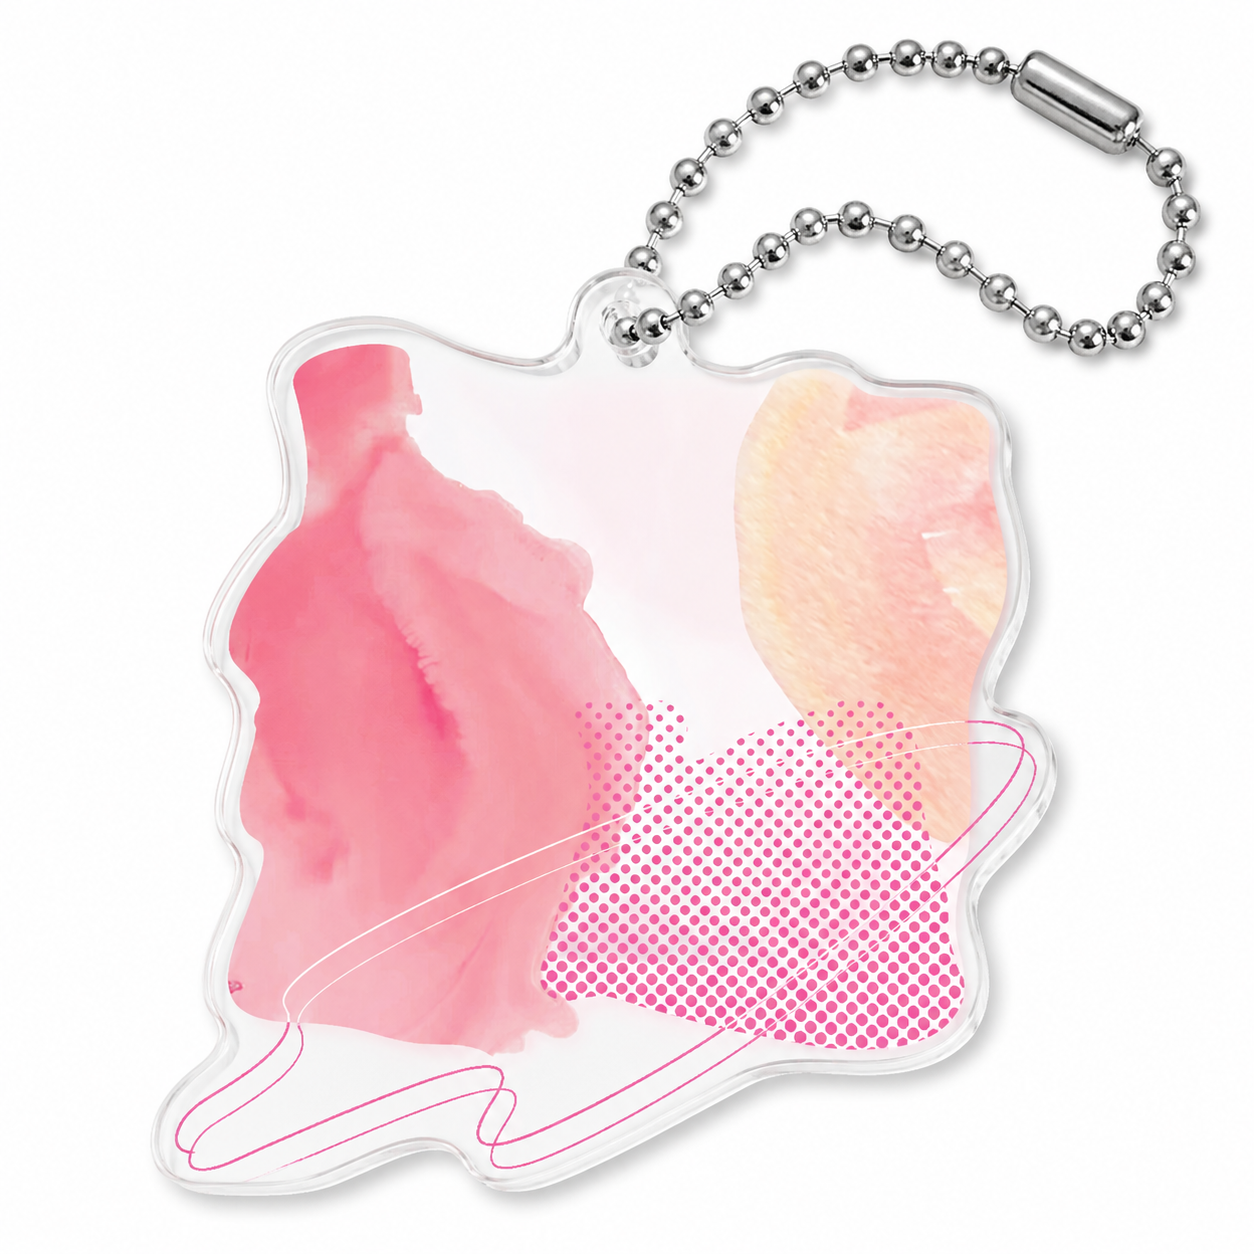
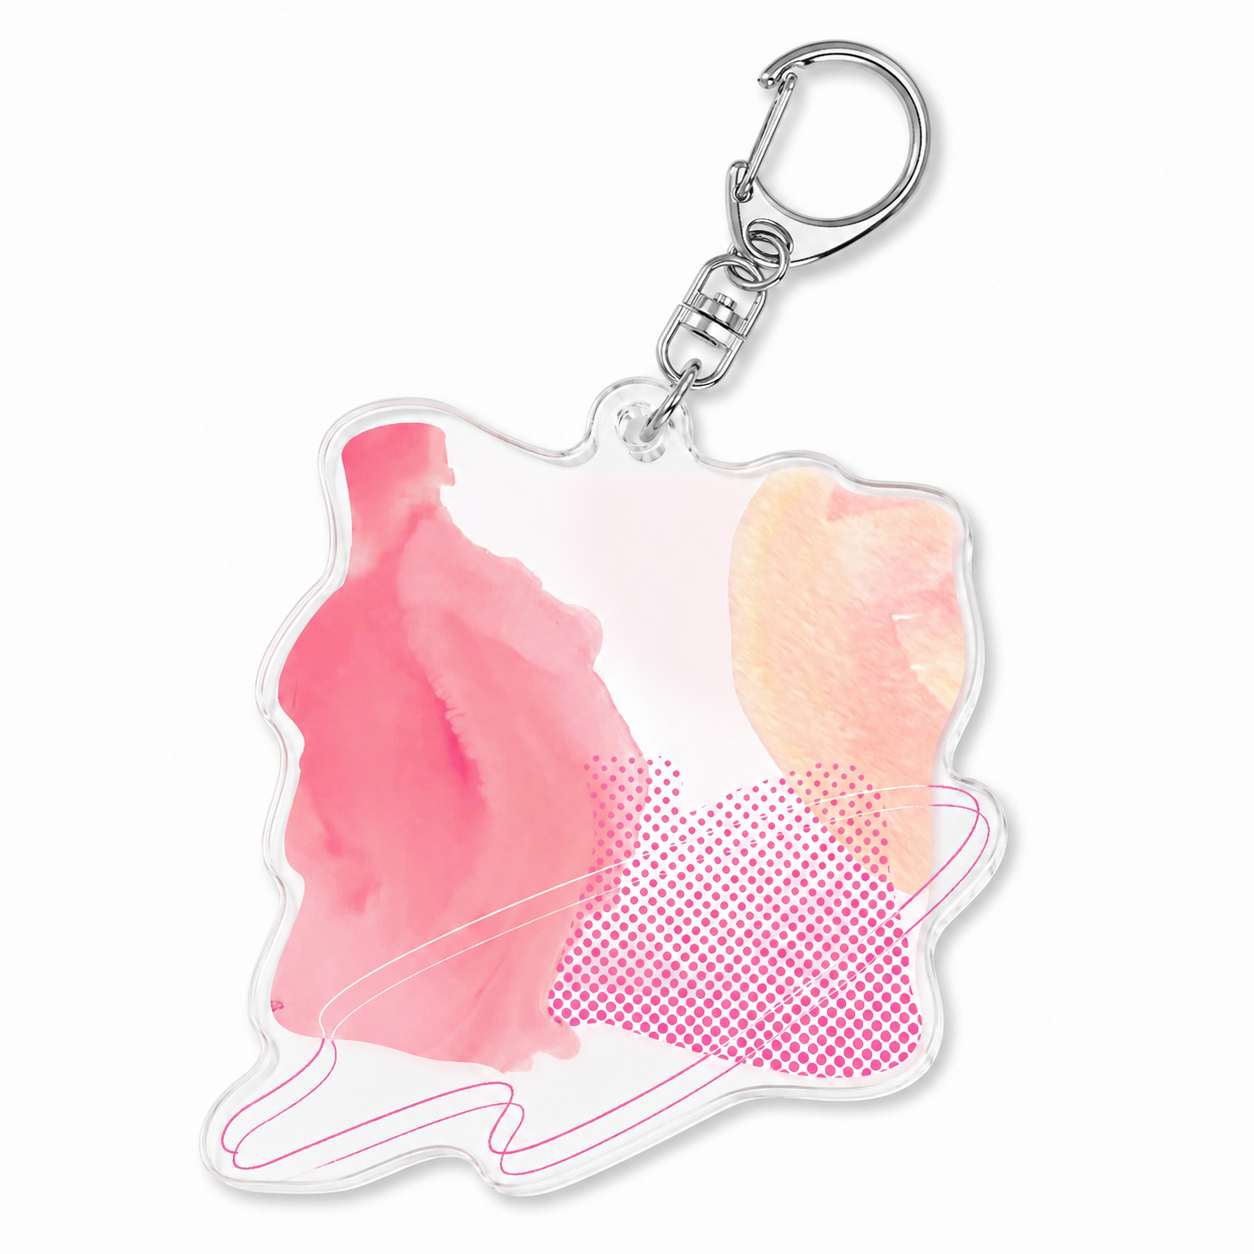
Localize goods text and add images
Make the goods section fully localizable and add new assets: split description3 into before/linkLabel/after so the external fund link can be translated and rendered as an anchor; replace hard-coded section title with copy.itemsLabel; update Dictionary type accordingly. Update English and Japanese locale files (adjust notes, add itemsLabel, restructure description3) and add two new images (clearfile.png, sticker.png) while updating the keychain asset.

Changed region(s): [[0.1244, 0.0311, 0.9641, 0.9641], [0.3421, 0.5598, 0.4043, 0.6842], [0.311, 0.5287, 0.3421, 0.5598]]

diff --git a/components/sections/GoodsSection.tsx b/components/sections/GoodsSection.tsx
@@ -7,6 +7,8 @@ type GoodsSectionProps = {
 };
 
 const goodsImages: Record<string, string> = {
+  "CLEAR FILE": "/goods/clearfile.png",
+  STICKER: "/goods/sticker.png",
   "ACRYLIC KEYCHAIN": "/goods/keychain.png",
   "T-SHIRT": "/goods/shirt.png",
 };
@@ -33,7 +35,18 @@ export function GoodsSection({ dictionary }: GoodsSectionProps) {
               {copy.lead}
             </p>
             <p>{copy.description2}</p>
-            <p>{copy.description3}</p>
+            <p>
+              {copy.description3.before}
+              <a
+                className="underline underline-offset-4 transition-opacity hover:opacity-70"
+                href="https://utf.u-tokyo.ac.jp/project/pjt187"
+                rel="noopener noreferrer"
+                target="_blank"
+              >
+                {copy.description3.linkLabel}
+              </a>
+              {copy.description3.after}
+            </p>
             <p>{copy.description4}</p>
             <p>{copy.description5}</p>
           </div>
@@ -41,7 +54,7 @@ export function GoodsSection({ dictionary }: GoodsSectionProps) {
           <div className="w-full">
             <div className="relative mb-8 border-t-2 border-dotted border-pink/45">
               <span className="absolute left-1/2 top-0 -translate-x-1/2 -translate-y-1/2 bg-background px-6 font-zen-kaku text-2xl text-pink">
-                返礼品
+                {copy.itemsLabel}
               </span>
             </div>
 

diff --git a/lib/i18n.ts b/lib/i18n.ts
@@ -54,9 +54,14 @@ export type Dictionary = {
       lead: string;
       description1: string;
       description2: string;
-      description3: string;
+      description3: {
+        before: string;
+        linkLabel: string;
+        after: string;
+      };
       description4: string;
       description5: string;
+      itemsLabel: string;
       note: string;
       items: {
         name: string;
